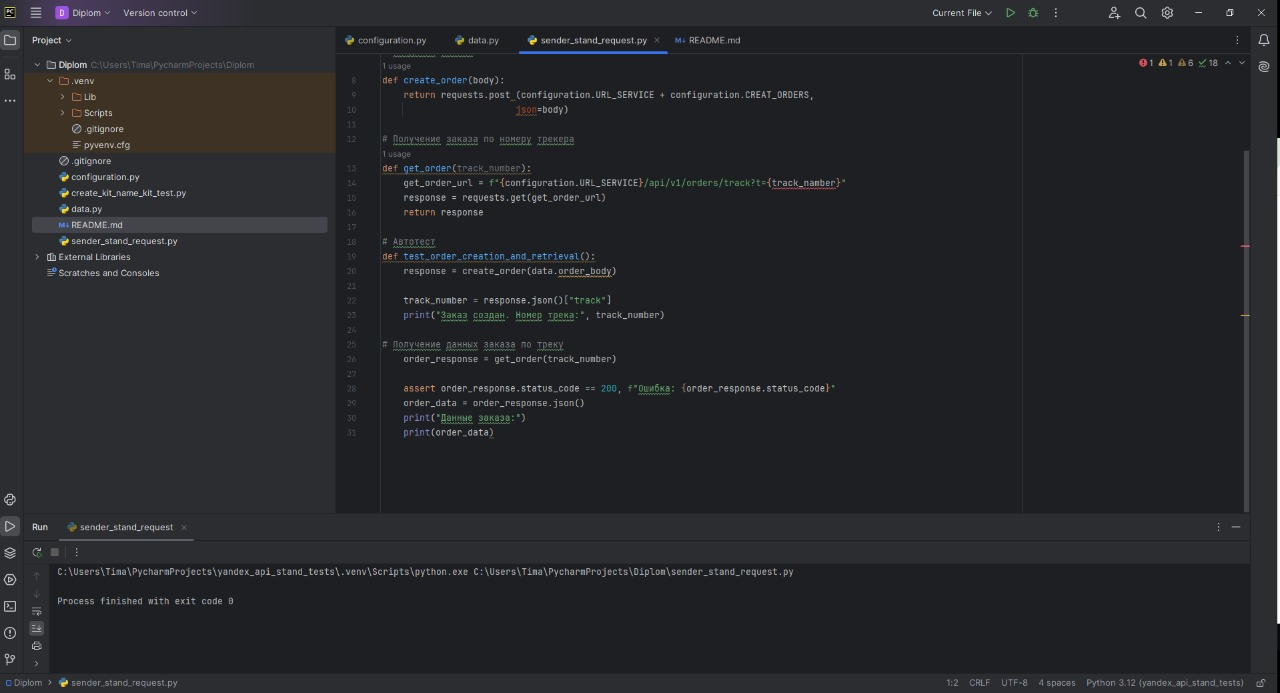
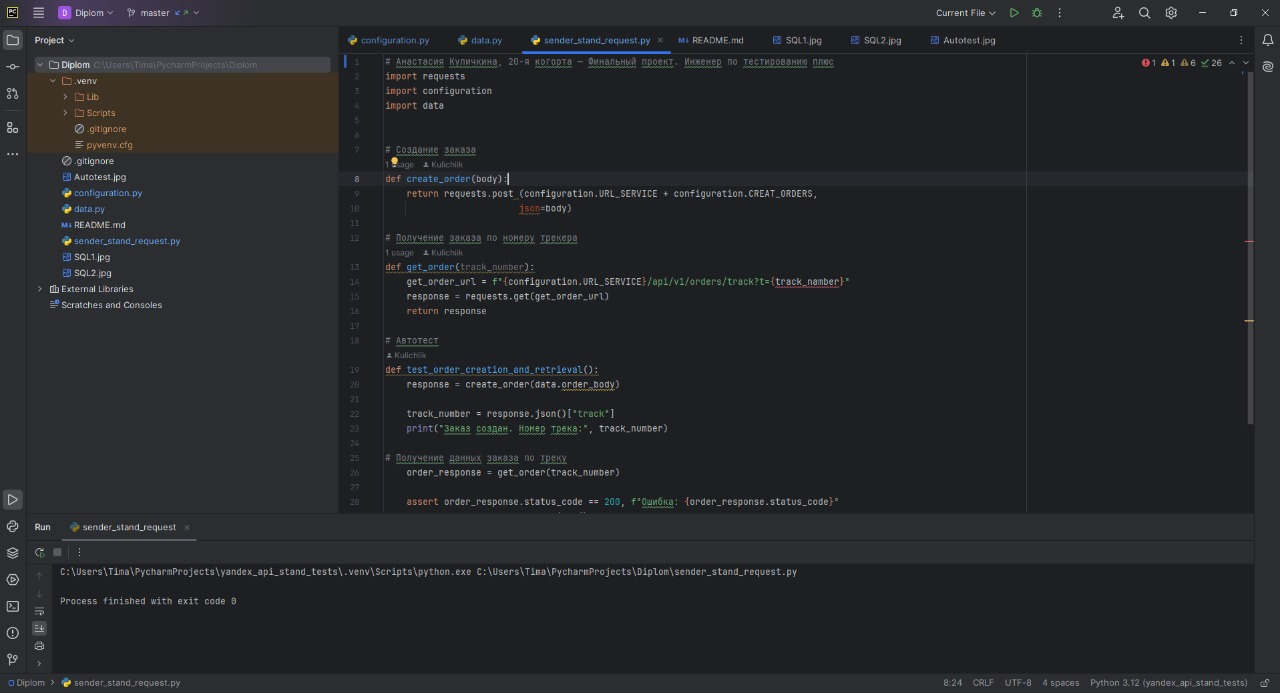
Diplom

diff --git a/configuration.py b/configuration.py
@@ -1,3 +1,4 @@
+# Анастасия Куличкина, 20-я когорта — Финальный проект. Инженер по тестированию плюс
 URL_SERVICE = "https://c98b8684-5a5b-43e0-b878-cd3089edd324.serverhub.praktikum-services.ru/"
 
 CREAT_ORDERS = "/api/v1/orders"

diff --git a/data.py b/data.py
@@ -1,3 +1,4 @@
+# Анастасия Куличкина, 20-я когорта — Финальный проект. Инженер по тестированию плюс
 {
     "firstName": "Naruto",
     "lastName": "Uchiha",

diff --git a/sender_stand_request.py b/sender_stand_request.py
@@ -1,4 +1,4 @@
-#
+# Анастасия Куличкина, 20-я когорта — Финальный проект. Инженер по тестированию плюс
 import requests
 import configuration
 import data

diff --git a/README.md b/README.md
@@ -11,7 +11,11 @@
 
 Запрос: 
   
-
+  `SELECT c.login, COUNT(o.id) AS "deliveryCount" 
+  FROM "Couriers" AS c 
+  LEFT JOIN "Orders" AS o ON c.id = o."courierId" 
+  WHERE o."inDelivery" = true 
+  GROUP BY c.login;`  
 
 
 ### Задание 2 
@@ -22,7 +26,13 @@
 
 Запрос:
 
-
+   `SELECT track, 
+      CASE 
+   WHEN finished = true THEN 2 
+   WHEN cancelled = true THEN -1 
+   WHEN "inDelivery" = true THEN 1 
+   ELSE 0 END AS status 
+   FROM "Orders";`
 
 ### Задание 3
 
@@ -30,4 +40,4 @@
 1. Клиент создает заказ.
 2. Проверяется, что по треку заказа можно получить данные о заказе.
    
-(Результат Autotest1.jpg)
+(Результат Autotest.jpg)
